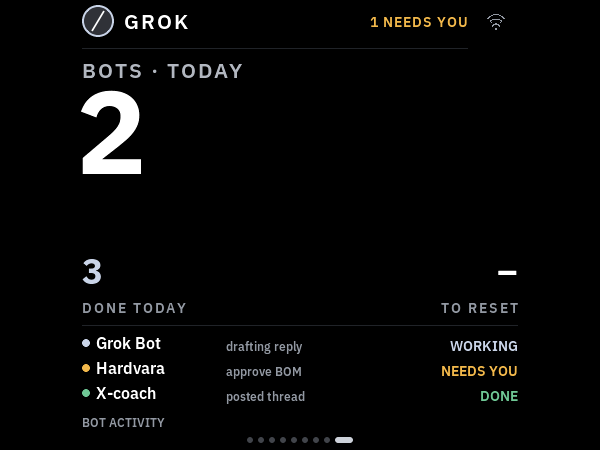
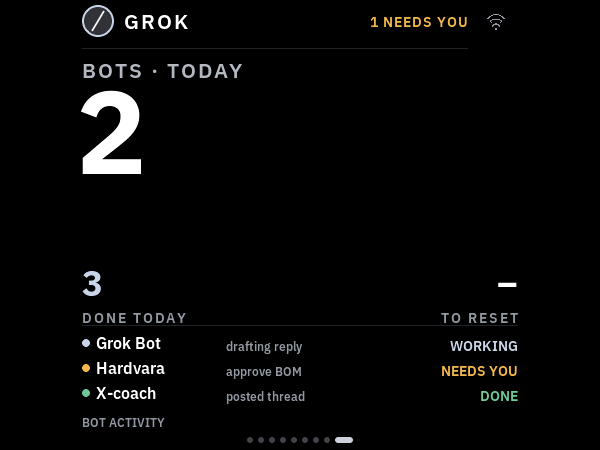
Grok page: percent of budget is the hero, dollars are secondary
Like the Claude and Codex pages, the hero is now a percentage: spend of
the configured limit for xAI or OpenRouter, or the quota percent. The
caption names the budget window (MONTHLY BUDGET, DAILY/WEEKLY BUDGET) and
'$47.18 of $200' is small secondary text on every board. A money source
without a limit still shows dollars, captioned SPEND. Renders, docs frames
and render tests follow.

Changed region(s): [[0.12, 0.56, 0.33, 0.7156], [0.72, 0.5911, 0.87, 0.7156]]

diff --git a/components/app_tokens/usage_screen.c b/components/app_tokens/usage_screen.c
@@ -1285,14 +1285,15 @@ static int grok_pace(int32_t reset_seconds, int window, int span) {
   if (pace>span) pace=span;
   return (int)pace;
 }
-static const char *grok_openrouter_caption(const tk_grok_status *s) {
+static const char *grok_money_caption(const tk_grok_status *s, bool budget) {
+  if (!strcmp(s->source,"xai")) return budget ? "MONTHLY BUDGET":"SPEND · MONTH";
   if (s->has_window) {
-    if (s->window_seconds==86400) return "OPENROUTER · DAY";
-    if (s->window_seconds==604800) return "OPENROUTER · WEEK";
+    if (s->window_seconds==86400) return budget ? "DAILY BUDGET":"SPEND · DAY";
+    if (s->window_seconds==604800) return budget ? "WEEKLY BUDGET":"SPEND · WEEK";
     if (s->window_seconds>=28*86400 && s->window_seconds<=31*86400)
-      return "OPENROUTER · MONTH";
+      return budget ? "MONTHLY BUDGET":"SPEND · MONTH";
   }
-  return "OPENROUTER · SPEND";
+  return budget ? "BUDGET":"SPEND";
 }
 #ifdef TORGET_BOARD_175
 static void grok_ring_draw(lv_event_t *event) {
@@ -1381,15 +1382,14 @@ static void create_grok_page(void) {
   lv_obj_set_style_text_font(grok_page.hero,&plex_money_35,0);
   grok_visible(grok_page.left,false); grok_visible(grok_page.left_caption,false);
   grok_visible(grok_page.reset,false); grok_visible(grok_page.reset_caption,false);
-  grok_visible(grok_page.sub,false);
+  lv_obj_set_pos(grok_page.sub,22,174); lv_obj_set_width(grok_page.sub,260);
   lv_obj_set_pos(grok_page.provenance,22,208);
   lv_obj_set_pos(grok_page.empty,286,100); lv_obj_set_width(grok_page.empty,172);
 #else
   /* Keep the native quota bar's construction and width, compact its rhythm. */
-  grok_visible(grok_page.sub,false);
-  lv_obj_set_y(g->track,238); lv_obj_set_y(g->marker,234);
-  lv_obj_set_y(grok_page.left,274); lv_obj_set_y(grok_page.reset,274);
-  lv_obj_set_y(grok_page.left_caption,313); lv_obj_set_y(grok_page.reset_caption,313);
+  lv_obj_set_y(g->track,258); lv_obj_set_y(g->marker,254);
+  lv_obj_set_y(grok_page.left,286); lv_obj_set_y(grok_page.reset,286);
+  lv_obj_set_y(grok_page.left_caption,323); lv_obj_set_y(grok_page.reset_caption,323);
   create_hairline(tile,340);
 #endif
   create_pager(tile,VIEW_GROK);
@@ -1471,6 +1471,9 @@ static void refresh_grok_age(int64_t now_us) {
   if (stale!=grok_page.rendered_stale) {
     grok_page.rendered_stale=stale;
     lv_obj_set_style_text_opa(grok_page.hero,stale ? LV_OPA_50:LV_OPA_COVER,0);
+#ifdef TORGET_BOARD_175
+    lv_obj_set_style_text_opa(grok_page.gauge.percent_unit,stale ? LV_OPA_50:LV_OPA_COVER,0);
+#endif
   }
   if (feed_stale!=grok_page.rendered_rows_stale) {
 #ifdef TORGET_BOARD_175
@@ -1518,54 +1521,76 @@ static void apply_grok_page(const tk_grok_status *s, int64_t now_us) {
       strcmp(s->source,grok_page.shown.source);
 #endif
     grok_page.shown=*s; grok_page.shown_at_us=now_us;
-    const char *money_caption=!strcmp(s->source,"openrouter") ? grok_openrouter_caption(s):"API SPEND · MONTH";
-#ifdef TORGET_BOARD_175
-    money_caption=!strcmp(s->source,"openrouter") ? grok_openrouter_caption(s):"API SPEND · USD";
-#endif
-    grok_text(grok_page.caption,money ? money_caption:manual ? (s->label[0] ? s->label:"WEEKLY POOL"):bots ? "BOTS · TODAY":"GROK");
+    bool budget=money && s->has_limit && s->limit_cents>0;
+    bool percent=manual || budget;
+    int64_t basis_points=manual && data ? (int64_t)s->used_pct*100:
+      budget && data ? (int64_t)s->spent_cents*10000/s->limit_cents:-1;
+    int64_t pct=basis_points<0 ? -1:(basis_points+50)/100;
+    grok_text(grok_page.caption,money ? grok_money_caption(s,budget):manual ? (s->label[0] ? s->label:"WEEKLY USAGE"):bots ? "BOTS · TODAY":"GROK");
     if (!data) snprintf(text,sizeof text,"–");
+    else if (percent) snprintf(text,sizeof text,"%lld%%",(long long)pct);
     else if (money) grok_dollars(text,sizeof text,s->spent_cents,true);
-    else snprintf(text,sizeof text,"%ld%s",(long)(manual ? s->used_pct:s->active),manual ? "%":"");
+    else snprintf(text,sizeof text,"%ld",(long)s->active);
+    const lv_font_t *font=money && !percent ? &plex_money_118:&plex_num_118;
+    int spacing=0;
 #ifdef TORGET_BOARD_175
-    if (money && data) memmove(text,text+1,strlen(text));
-    if(manual && data) text[strlen(text)-1]=0;
+    if (money && !percent && data) memmove(text,text+1,strlen(text));
+    if(percent && data) text[strlen(text)-1]=0;
+#else
+    if(percent) { font=&plex_num_164; spacing=-9; }
+    lv_obj_set_y(grok_page.hero,105);
+    lv_obj_set_height(grok_page.hero,percent ? 150:130);
 #endif
-    const lv_font_t *font=money ? &plex_money_118:&plex_num_118;
 #ifdef TORGET_BOARD_191_TOUCH
     font=&plex_quota_84;
-    bool currency=money && data && s->spent_cents<100000;
+    spacing=percent ? -4:0;
+    lv_obj_set_y(grok_page.hero,VP_PERCENT_Y);
+    lv_obj_set_height(grok_page.hero,90);
+    bool currency=money && !percent && data && s->spent_cents<100000;
     if(currency) memmove(text,text+1,strlen(text));
     grok_visible(grok_page.currency,currency);
     if(lv_obj_get_style_x(grok_page.hero,0)!=(currency ? 40:16)) lv_obj_set_x(grok_page.hero,currency ? 40:16);
     if(lv_obj_get_style_width(grok_page.hero,0)!=(currency ? 242:266)) lv_obj_set_width(grok_page.hero,currency ? 242:266);
 #endif
+    lv_obj_set_style_text_letter_space(grok_page.hero,spacing,0);
     lv_point_t size;
-    lv_text_get_size(&size,text,font,0,0,LV_COORD_MAX,LV_TEXT_FLAG_NONE);
+    lv_text_get_size(&size,text,font,spacing,0,LV_COORD_MAX,LV_TEXT_FLAG_NONE);
     if (size.x>
 #ifdef TORGET_BOARD_175
         340
 #else
         lv_obj_get_style_width(grok_page.hero,0)
 #endif
-        ) font=money ? &plex_money_35:&plex_num_38;
+        ) {
+      font=money && !percent ? &plex_money_35:percent ? &plex_stat_35:&plex_num_38;
+      spacing=0;
+      lv_obj_set_style_text_letter_space(grok_page.hero,spacing,0);
+      lv_text_get_size(&size,text,font,0,0,LV_COORD_MAX,LV_TEXT_FLAG_NONE);
+      if(size.x>
+#ifdef TORGET_BOARD_175
+          300
+#else
+          lv_obj_get_style_width(grok_page.hero,0)
+#endif
+          ) font=&plex_ui_21;
+    }
     if (lv_obj_get_style_text_font(grok_page.hero,0)!=font) lv_obj_set_style_text_font(grok_page.hero,font,0);
     grok_text(grok_page.hero,text);
 #ifdef TORGET_BOARD_175
-    grok_visible(grok_page.gauge.percent_unit,manual && data);
-    if(manual && data) {
-      lv_text_get_size(&size,text,font,0,0,LV_COORD_MAX,LV_TEXT_FLAG_NONE);
+    grok_visible(grok_page.gauge.percent_unit,percent && data);
+    if(percent && data) {
+      lv_text_get_size(&size,text,font,spacing,0,LV_COORD_MAX,LV_TEXT_FLAG_NONE);
       int x=(480-size.x-40)/2;
       if(lv_obj_get_style_width(grok_page.hero,0)!=size.x) lv_obj_set_width(grok_page.hero,size.x);
       if(lv_obj_get_style_x(grok_page.hero,0)!=x) lv_obj_set_x(grok_page.hero,x);
       if(lv_obj_get_style_x(grok_page.gauge.percent_unit,0)!=x+size.x+3) lv_obj_set_x(grok_page.gauge.percent_unit,x+size.x+3);
-      if(lv_obj_get_style_y(grok_page.gauge.percent_unit,0)!=VP_ROUND_PERCENT_Y+60) lv_obj_set_y(grok_page.gauge.percent_unit,VP_ROUND_PERCENT_Y+60);
+      int unit_y=VP_ROUND_PERCENT_Y+(font==&plex_num_118 ? 60:0);
+      if(lv_obj_get_style_y(grok_page.gauge.percent_unit,0)!=unit_y) lv_obj_set_y(grok_page.gauge.percent_unit,unit_y);
     } else {
       if(lv_obj_get_style_x(grok_page.hero,0)!=70) lv_obj_set_x(grok_page.hero,70);
       if(lv_obj_get_style_width(grok_page.hero,0)!=340) lv_obj_set_width(grok_page.hero,340);
     }
 #endif
-    int64_t basis_points=manual && data ? s->used_pct*100:money && data && s->has_limit && s->limit_cents>0 ? (int64_t)s->spent_cents*10000/s->limit_cents:-1;
-    int64_t pct=basis_points<0 ? -1:(basis_points+50)/100;
     int fill=basis_points<0 ? 0:basis_points>10000 ? 10000:(int)basis_points;
     amount[0]=0;
     if(money && data && s->has_limit) grok_dollars(amount,sizeof amount,s->limit_cents,false);
@@ -1589,7 +1614,11 @@ static void apply_grok_page(const tk_grok_status *s, int64_t now_us) {
     grok_text(grok_page.reset_caption,"TO RESET");
 #endif
     text[0]=0;
-    if (pct>=0 && money) snprintf(text,sizeof text,"%lld%% of %s limit",(long long)pct,amount);
+    if (budget && data) {
+      char spent[32]; grok_dollars(spent,sizeof spent,s->spent_cents,true);
+      snprintf(text,sizeof text,"%s of %s",spent,amount);
+    }
+    grok_visible(grok_page.sub,budget && data);
     grok_text(grok_page.sub,text);
     quota_page *g=&grok_page.gauge;
 #ifdef TORGET_BOARD_175

diff --git a/test/test_grok_render.py b/test/test_grok_render.py
@@ -18,7 +18,7 @@ ROOT = Path(__file__).resolve().parents[1]
 FRAMES = ("startup", "empty", "xai", "openrouter", "manual", "bots", "stale", "disabled", "live",
           "offline", "retained", "bots-live", "bots-retained",
           "manual-live", "manual-retained", "manual-unknown-age-live",
-          "manual-unknown-age-retained", "wide", "wide-left")
+          "manual-unknown-age-retained", "wide", "wide-left", "huge-percent", "unlimited")
 
 
 def brightness(image, box):
@@ -60,7 +60,7 @@ class GrokRenderTests(unittest.TestCase):
 
     def test_startup_has_no_bar_or_bot_rows(self):
         with self.frame("startup") as startup:
-            self.assertEqual(brightness(startup, (22, 234, 458, 266)), 0)
+            self.assertEqual(brightness(startup, (22, 254, 458, 282)), 0)
             self.assertEqual(brightness(startup, (22, 375, 458, 425)), 0)
             self.assertEqual(brightness(startup, (220, 24, 408, 48)), 0)
             self.assertGreater(brightness(startup, (16, 105, 464, 235)), 0)
@@ -86,10 +86,27 @@ class GrokRenderTests(unittest.TestCase):
 
     def test_native_quota_bar_uses_silver_fill_and_white_pace_tick(self):
         with self.frame("live") as live, self.frame("manual") as manual:
-            self.assertEqual(live.convert("RGB").getpixel((40, 250)), (201, 212, 232))
-            self.assertEqual(live.convert("RGB").getpixel((200, 250)), (48, 50, 56))
-            self.assertEqual(live.convert("RGB").getpixel((268, 236)), (255, 255, 255))
-            self.assertEqual(manual.convert("RGB").getpixel((180, 250)), (201, 212, 232))
+            self.assertEqual(live.convert("RGB").getpixel((40, 270)), (201, 212, 232))
+            self.assertEqual(live.convert("RGB").getpixel((200, 270)), (48, 50, 56))
+            self.assertEqual(live.convert("RGB").getpixel((268, 256)), (255, 255, 255))
+            self.assertEqual(manual.convert("RGB").getpixel((180, 270)), (201, 212, 232))
+
+    def test_budget_details_and_unlimited_fallback(self):
+        detail = (22, 232, 458, 252)
+        with self.frame("live") as budget, self.frame("unlimited") as unlimited, self.frame("manual") as manual:
+            self.assertGreater(brightness(budget, detail), 0)
+            self.assertEqual(brightness(unlimited, detail), 0)
+            self.assertEqual(brightness(manual, detail), 0)
+            self.assertEqual(brightness(unlimited, (22, 254, 458, 282)), 0)
+            self.assertGreater(brightness(unlimited, (16, 105, 464, 232)), 0)
+
+    def test_maximum_percent_fits_and_bar_stays_clamped(self):
+        with self.frame("huge-percent") as huge, self.frame("wide") as full:
+            self.assertGreater(brightness(huge, (16, 105, 464, 160)), 0)
+            self.assertEqual(brightness(huge, (16, 160, 464, 232)), 0)
+            self.assertIsNone(ImageChops.difference(
+                huge.crop((22, 258, 458, 282)).convert("RGB"),
+                full.crop((22, 258, 458, 282)).convert("RGB")).getbbox())
 
     def test_bot_divider_and_status_dot_landmarks(self):
         with self.frame("live") as live:

diff --git a/sim/main.c b/sim/main.c
@@ -1844,6 +1844,10 @@ static int run_vibepulse_grok_qa(void) {
   tokens_apply_grok(&wide); lv_refr_now(NULL); dump_frame("vibepulse-grok-wide");
   wide.spent_cents=4718;
   tokens_apply_grok(&wide); lv_refr_now(NULL); dump_frame("vibepulse-grok-wide-left");
+  wide.spent_cents=INT32_MAX; wide.limit_cents=1;
+  tokens_apply_grok(&wide); lv_refr_now(NULL); dump_frame("vibepulse-grok-huge-percent");
+  wide.spent_cents=4718; wide.has_limit=false;
+  tokens_apply_grok(&wide); lv_refr_now(NULL); dump_frame("vibepulse-grok-unlimited");
   return capture_failures ? 1:0;
 }
 

diff --git a/docs/grok-pulse.md b/docs/grok-pulse.md
@@ -153,7 +153,9 @@ sensitive task descriptions. Neither prompts nor chat history are collected.
 
 ## Panel page (build-time opt-in)
 
-The optional **GROK** page displays xAI or OpenRouter monthly API spend, a manually observed
+The optional **GROK** page displays xAI or OpenRouter percent of budget with
+spent and limit dollars below. Without a positive limit, the hero shows dollars.
+It also supports a manually observed
 quota percentage, or bot activity, with explicit source and freshness. Unknown
 numbers show a dash; a later unavailable reading retains the last real value.
 Stale values dim. If the panel gets no successful `/api/grok` read for 90
@@ -189,10 +191,12 @@ SDL_VIDEODRIVER=dummy SDL_RENDER_DRIVER=software ./sim/build-grok/torget-sim --v
 On a desktop, the SDL environment variables can be omitted. Offline builds can add
 `-DFETCHCONTENT_SOURCE_DIR_LVGL=/path/to/cached/lvgl-src` to CMake.
 The fixtures produce `/tmp/torget-vibepulse-grok-<state>.bmp` for
-`startup` (before any Grok payload), `empty`, `xai`, `openrouter`, `manual`, `bots`, `stale`, `disabled` and `live` (API spend
+`startup` (before any Grok payload), `empty`, `xai`, `openrouter`, `manual`, `bots`, `stale`, `disabled` and `live` (budget percentage
 plus four bots), followed by `offline` (91 s without a read) and `retained`
 (a payload without numbers after real readings). Additional captures cover
-retained bot/manual readings, manual age unknown, and maximum wire values.
+retained bot/manual readings, manual age unknown, maximum wire values,
+`huge-percent` (INT32_MAX cents against a one-cent budget), and `unlimited`
+(the dollar-hero fallback with no limit).
 `test/test_grok_render.py`
 builds the 2.16 variant in the host gate and checks those transitions.
 Set `TORGET_CAPTURE_DIR` to an existing directory to retain captures from
@@ -210,7 +214,9 @@ physical AMOLED rendering.
 Before the first successful poll, every profile shows a dash and WAITING, with
 bot rows and the usage bar hidden. No snapshot is recorded by initialization.
 OpenRouter captions use DAY, WEEK or MONTH for reported 1-day, 7-day or
-28–31-day windows; other or missing windows show SPEND. Optional `windowSeconds`
+28–31-day windows: DAILY/WEEKLY/MONTHLY BUDGET with a limit,
+SPEND · DAY/WEEK/MONTH without one. Other or missing windows show BUDGET
+or SPEND respectively. Optional `windowSeconds`
 is an integer from 1 to 2678400. Pace uses this window when supplied, otherwise
 xAI uses 30 days and manual uses 7 days. OpenRouter without a window has no
 pace marker, including on the round ring.

diff --git a/README.md b/README.md
@@ -25,7 +25,8 @@ only the encrypted interaction/status relay adds the pinned Python
 `cryptography` dependency.
 
 A build-time opt-in [Grok page](docs/grok-pulse.md#panel-page-build-time-opt-in)
-shows explicitly sourced API spend, manual quota, or local bot activity.
+shows percent of budget with dollars below, manual quota, or local bot activity.
+Without a positive budget limit, the hero shows dollars instead.
 
 An optional [Lovable credits page](docs/lovable-pulse.md) is available in Labs.
 The current MCP response omits balances despite the documentation; an opt-in
@@ -162,12 +163,14 @@ acceptance remain pending; see the linked checkpoint for the tested build.*
 ## Grok quota and bot activity (build-time preview)
 
 The opt-in **GROK** page uses VibePulse's quota header, gauge and stat widgets.
+Money sources show percent of budget with dollars below; without a positive
+limit, the hero shows dollars instead.
 Square and rectangular profiles show up to three bot rows; round 1.75 uses the
 quota edge ring and one priority bot line. Sources and cached readings remain
 explicit. Enable `-DTORGET_GROK=ON` and the host's `--grok` option; both are off
 by default. [Setup and source limits](docs/grok-pulse.md#panel-page-build-time-opt-in).
 
-![Grok monthly spend and bot activity, native 480 × 480 simulator capture](docs/img/grok-216-spend.png)
+![Grok budget percentage and bot activity, native 480 × 480 simulator capture](docs/img/grok-216-spend.png)
 ![Grok bot activity, native 600 × 450 simulator capture](docs/img/grok-241-bots.png)
 
 *Shared LVGL captures with synthetic readings. Grok has no physical panel acceptance.*
@@ -817,12 +820,13 @@ official API without changing the display contract.
 
 ## Grok usage and bot activity (experimental)
 
-The default-off **GROK** page shows xAI monthly API spend, a manually copied
+The default-off **GROK** page shows xAI or OpenRouter percent of budget with
+dollars below (a dollar hero without a positive limit), a manually copied
 Grok quota, or bot activity. Source and freshness stay visible; missing values
 show dashes, and unavailable updates retain the last real reading. Waiting
 bots show **NEEDS YOU**, without an approval action.
 
-![Grok API spend: native 480×480 simulator example](docs/img/grok-216-spend.png)
+![Grok budget percentage: native 480×480 simulator example](docs/img/grok-216-spend.png)
 
 ![Grok bots: native 600×450 simulator example](docs/img/grok-241-bots.png)
 

diff --git a/CHANGELOG.md b/CHANGELOG.md
@@ -7,7 +7,7 @@ on the [releases page](https://github.com/niclasvestlund-YT/vibepulse/releases).
 
 - Add OpenRouter to the optional Grok host sources: spend and limit from the same window (effective budget, or key limit with matching daily/weekly/monthly usage, or UTC month spend for unlimited keys) and optional management-key account credits; auto selection is xAI → OpenRouter → bots → manual.
 
-- Add an optional, default-off host Grok preview: xAI API billing, manual quota and local bot status with bounded LAN payloads. Adds a build-time opt-in GROK firmware/simulator page for all five board profiles, strict payload validation, source/freshness and bot states. See [Grok setup](docs/grok-pulse.md); simulator/build evidence only, no physical panel verification.
+- Add an optional, default-off host Grok preview: xAI API billing, manual quota and local bot status with bounded LAN payloads. Adds a build-time opt-in GROK firmware/simulator page for all five board profiles, strict payload validation, source/freshness and bot states. Money sources show percent of budget with dollars as secondary text, falling back to a dollar hero without a positive limit. See [Grok setup](docs/grok-pulse.md); simulator/build evidence only, no physical panel verification.
 
 - OpenPulse now appears as the optional OPENROUTER switch in Labs; existing provider choices are preserved on upgrade.
 
